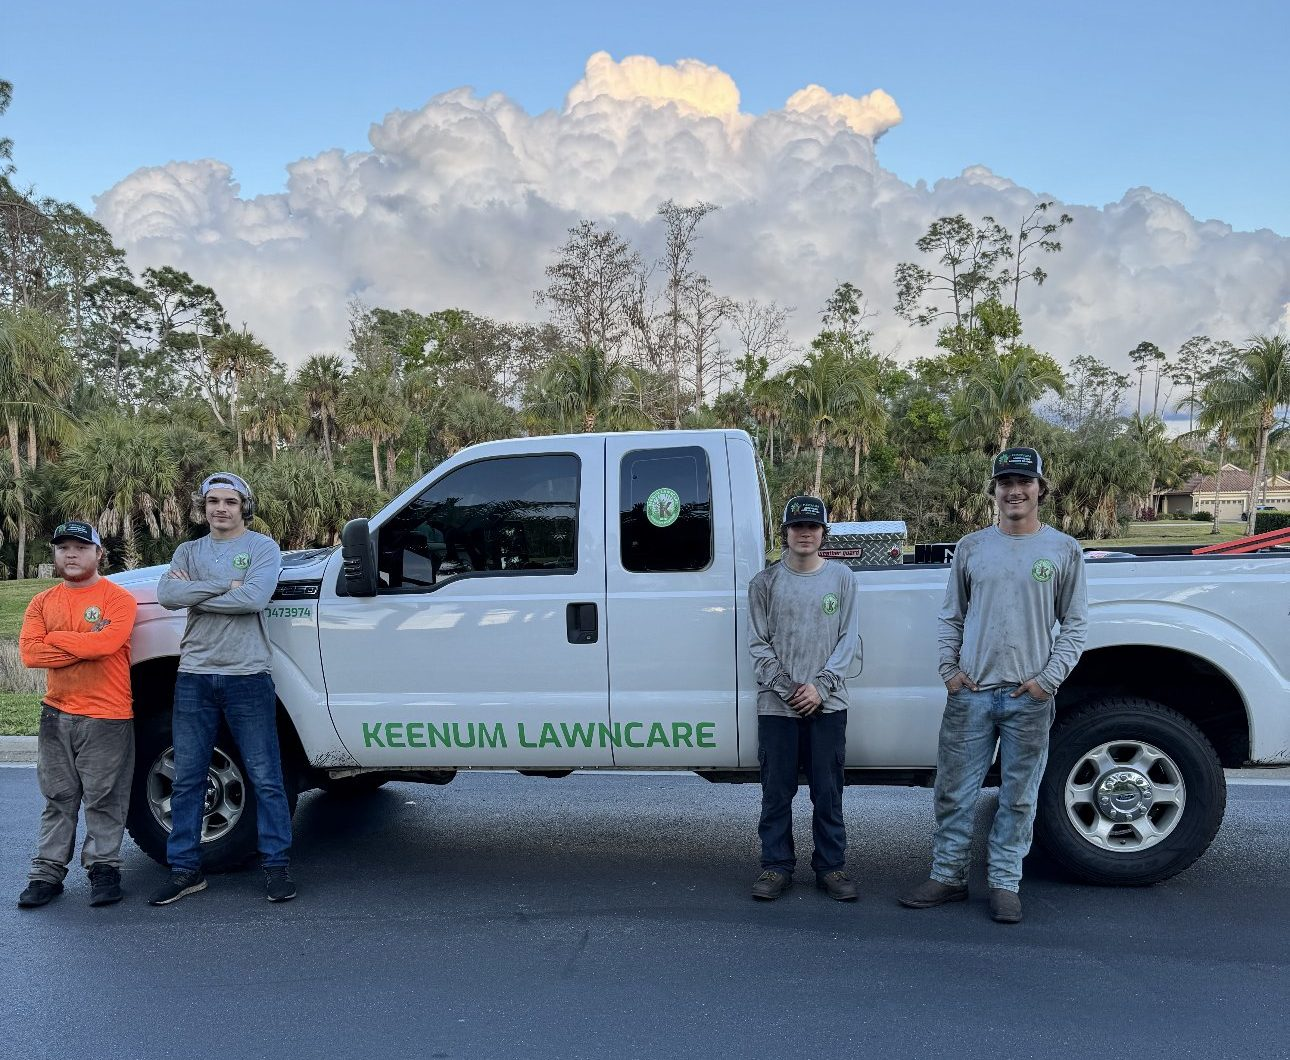
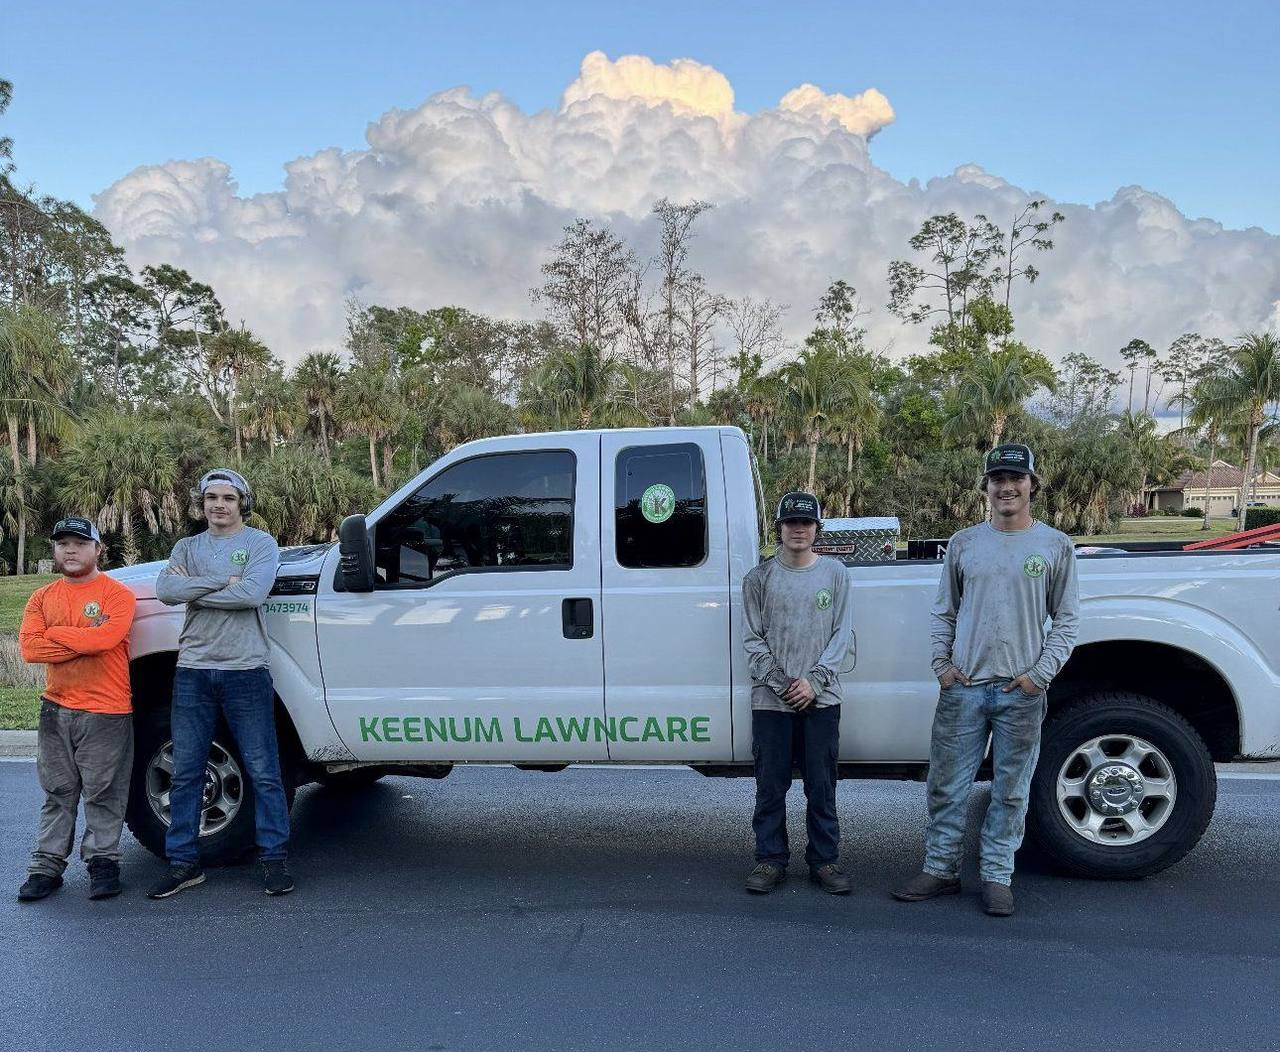
Redirect old ranking Wix service pages; compress images for mobile speed
Claude-Session: https://claude.ai/code/session_01VheeHafnQMKCBGyvdEhqFx

diff --git a/service-page/property-management-1.html b/service-page/property-management-1.html
@@ -1,0 +1,1 @@
+<!doctype html><meta charset="utf-8"><title>Moved</title><meta name="robots" content="noindex"><link rel="canonical" href="https://www.keenumlawncare.com/commercial-landscape-maintenance"><meta http-equiv="refresh" content="0; url=/commercial-landscape-maintenance"><a href="/commercial-landscape-maintenance">Continue</a>

diff --git a/service-page/mulch-installation.html b/service-page/mulch-installation.html
@@ -1,0 +1,1 @@
+<!doctype html><meta charset="utf-8"><title>Moved</title><meta name="robots" content="noindex"><link rel="canonical" href="https://www.keenumlawncare.com/install"><meta http-equiv="refresh" content="0; url=/install"><a href="/install">Continue</a>

diff --git a/service-page/palm-prunning.html b/service-page/palm-prunning.html
@@ -1,0 +1,1 @@
+<!doctype html><meta charset="utf-8"><title>Moved</title><meta name="robots" content="noindex"><link rel="canonical" href="https://www.keenumlawncare.com/install"><meta http-equiv="refresh" content="0; url=/install"><a href="/install">Continue</a>

diff --git a/service-page/landscape-installation-1.html b/service-page/landscape-installation-1.html
@@ -1,0 +1,1 @@
+<!doctype html><meta charset="utf-8"><title>Moved</title><meta name="robots" content="noindex"><link rel="canonical" href="https://www.keenumlawncare.com/design"><meta http-equiv="refresh" content="0; url=/design"><a href="/design">Continue</a>

diff --git a/service-page/landscape-installation-2.html b/service-page/landscape-installation-2.html
@@ -1,0 +1,1 @@
+<!doctype html><meta charset="utf-8"><title>Moved</title><meta name="robots" content="noindex"><link rel="canonical" href="https://www.keenumlawncare.com/design"><meta http-equiv="refresh" content="0; url=/design"><a href="/design">Continue</a>
